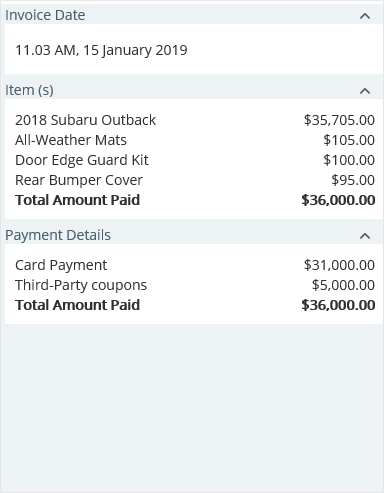
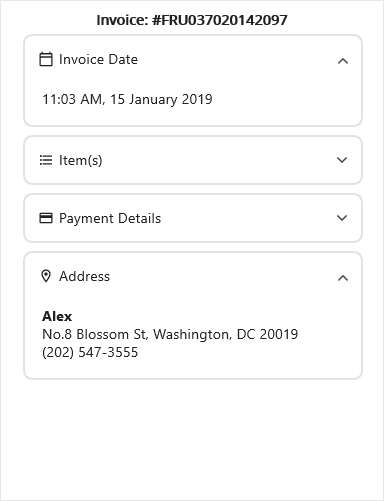
TASK 827166:SB correction DOne

diff --git a/MAUI/Expander/Appearance.md b/MAUI/Expander/Appearance.md
@@ -59,15 +59,25 @@ The appearance of the `SfExpander` can be customized using the following two `Vi
 
 {% tabs %}
 {% highlight xaml %}
-<syncfusion:SfExpander x:Name="expander">
+<syncfusion:SfExpander AnimationDuration="200" IsExpanded="True" >
     <syncfusion:SfExpander.Header>
-        <Grid>
-            <Label  Text="Veg Pizza" VerticalTextAlignment="Center"/>
-        </Grid>
+        <Grid >
+            <Grid.RowDefinitions>
+                <RowDefinition Height="48"/>
+            </Grid.RowDefinitions>
+            <Grid.ColumnDefinitions>
+                <ColumnDefinition Width="35"/>
+                <ColumnDefinition Width="*"/>
+            </Grid.ColumnDefinitions>
+            <Label Text="&#xe703;" FontSize="16" Margin="14,2,2,2"
+                                    FontFamily='{OnPlatform Android=AccordionFontIcons.ttf#,WinUI=AccordionFontIcons.ttf#AccordionFontIcons,MacCatalyst=AccordionFontIcons,iOS=AccordionFontIcons}'
+                                    VerticalOptions="Center" VerticalTextAlignment="Center"/>
+            <Label CharacterSpacing="0.25" FontFamily="Roboto-Regular"  Text="Invoice Date" FontSize="14" Grid.Column="1" VerticalOptions="CenterAndExpand"/>
+            </Grid>
     </syncfusion:SfExpander.Header>
     <syncfusion:SfExpander.Content>
-        <Grid>
-            <Label HeightRequest="50" Text="Veg pizza is prepared with the items that meet vegetarian standards by not including any meat or animal tissue products." VerticalTextAlignment="Center"/>
+        <Grid Padding="18,8,0,18" >
+            <Label CharacterSpacing="0.25" FontFamily="Roboto-Regular"  Text="11:03 AM, 15 January 2019" FontSize="14" VerticalOptions="CenterAndExpand"/>
         </Grid>
     </syncfusion:SfExpander.Content>
     <VisualStateManager.VisualStateGroups>
@@ -80,7 +90,7 @@ The appearance of the `SfExpander` can be customized using the following two `Vi
                 </VisualState>
                 <VisualState Name="Collapsed">
                     <VisualState.Setters>
-                        <Setter Property="HeaderBackground" Value="Green"/>
+                        <Setter Property="HeaderBackground" Value="Yellow"/>
                     </VisualState.Setters>
                 </VisualState>
             </VisualStateGroup>
@@ -90,15 +100,25 @@ The appearance of the `SfExpander` can be customized using the following two `Vi
 {% endhighlight %}
 {% highlight c# %}
 SfExpander expander = new SfExpander();
-expander.Header = new Label() 
-{
-    Text="Veg Pizza" 
-};
-expander.Content = new Label() 
-{ 
-    Text="Veg pizza is prepared with the items that meet vegetarian standards by not including any meat or animal tissue products."
-};
-    
+expander.IsExpanded = true;
+expander.AnimationDuration = 200;
+
+Grid headerGrid = new Grid();
+headerGrid.RowDefinitions.Add(new RowDefinition { Height = 48 });
+headerGrid.ColumnDefinitions.Add(new ColumnDefinition { Width = 35 });
+headerGrid.ColumnDefinitions.Add(new ColumnDefinition { Width = GridLength.Star });
+Label headerIconLabel = new Label { Text = "\ue703" ,Margin=new Thickness(14, 2, 2, 2), FontSize=16, VerticalOptions = LayoutOptions.Center, VerticalTextAlignment = TextAlignment.Center, FontFamily= DeviceInfo.Platform == DevicePlatform.WinUI ? "AccordionFontIcons.ttf#AccordionFontIcons" : DeviceInfo.Platform == DevicePlatform.Android ? "AccordionFontIcons.ttf#" : DeviceInfo.Platform == DevicePlatform.iOS ? "AccordionFontIcons": "AccordionFontIcons" };
+Label headerTextLabel = new Label { Text = "Invoice Date",CharacterSpacing=0.25, FontSize = 14, FontFamily = "Roboto-Regular", VerticalOptions = LayoutOptions.CenterAndExpand };
+headerGrid.Children.Add(headerIconLabel);
+headerGrid.Children.Add(headerTextLabel);
+headerGrid.SetColumn(headerTextLabel, 1);
+expander.Header = headerGrid;
+
+Grid contentGrid = new Grid();
+Label contentLabel = new Label { Text = "11:03 AM, 15 January 2019", FontSize = 14, FontFamily = "Roboto-Regular", VerticalOptions = LayoutOptions.CenterAndExpand };
+contentGrid.Children.Add(contentLabel);
+expander.Content = contentGrid;
+
 VisualStateGroupList visualStateGroupList = new VisualStateGroupList();
 VisualStateGroup commonStateGroup = new VisualStateGroup();
 
@@ -106,16 +126,14 @@ VisualState expanded = new VisualState
 {
     Name = "Expanded"
 };
-expanded.Setters.Add(new Setter { Property = SfExpander.HeaderBackgroundProperty, Value = Color.Red });
-expanded.Setters.Add(new Setter { Property = SfExpander.HeaderBackgroundProperty, Value = Color.Red });
+expanded.Setters.Add(new Setter { Property = SfExpander.HeaderBackgroundProperty, Value = Colors.Red });
 
 VisualState collapsed = new VisualState
 {
     Name = "Collapsed"
 };
-collapsed.Setters.Add(new Setter { Property = SfExpander.HeaderBackgroundProperty, Value = Color.Green });
-collapsed.Setters.Add(new Setter { Property = SfExpander.HeaderBackgroundProperty, Value = Color.Green });
-    
+collapsed.Setters.Add(new Setter { Property = SfExpander.HeaderBackgroundProperty, Value = Colors.Yellow });
+
 commonStateGroup.States.Add(expanded);
 commonStateGroup.States.Add(collapsed);
 
@@ -125,5 +143,7 @@ this.Content = expander;
 {% endhighlight %}
 {% endtabs %}
 
-![.Net MAUI Expander with VSM](Images/maui-expander-with-VSM.png)
+![.Net MAUI Expander in collapsed state with VSM](Images/maui-expander-with-collapsed-vsm.png)
+
+![.Net MAUI Expander in expanded state with VSM](Images/maui-expander-with-expanded-vsm.png)
 
